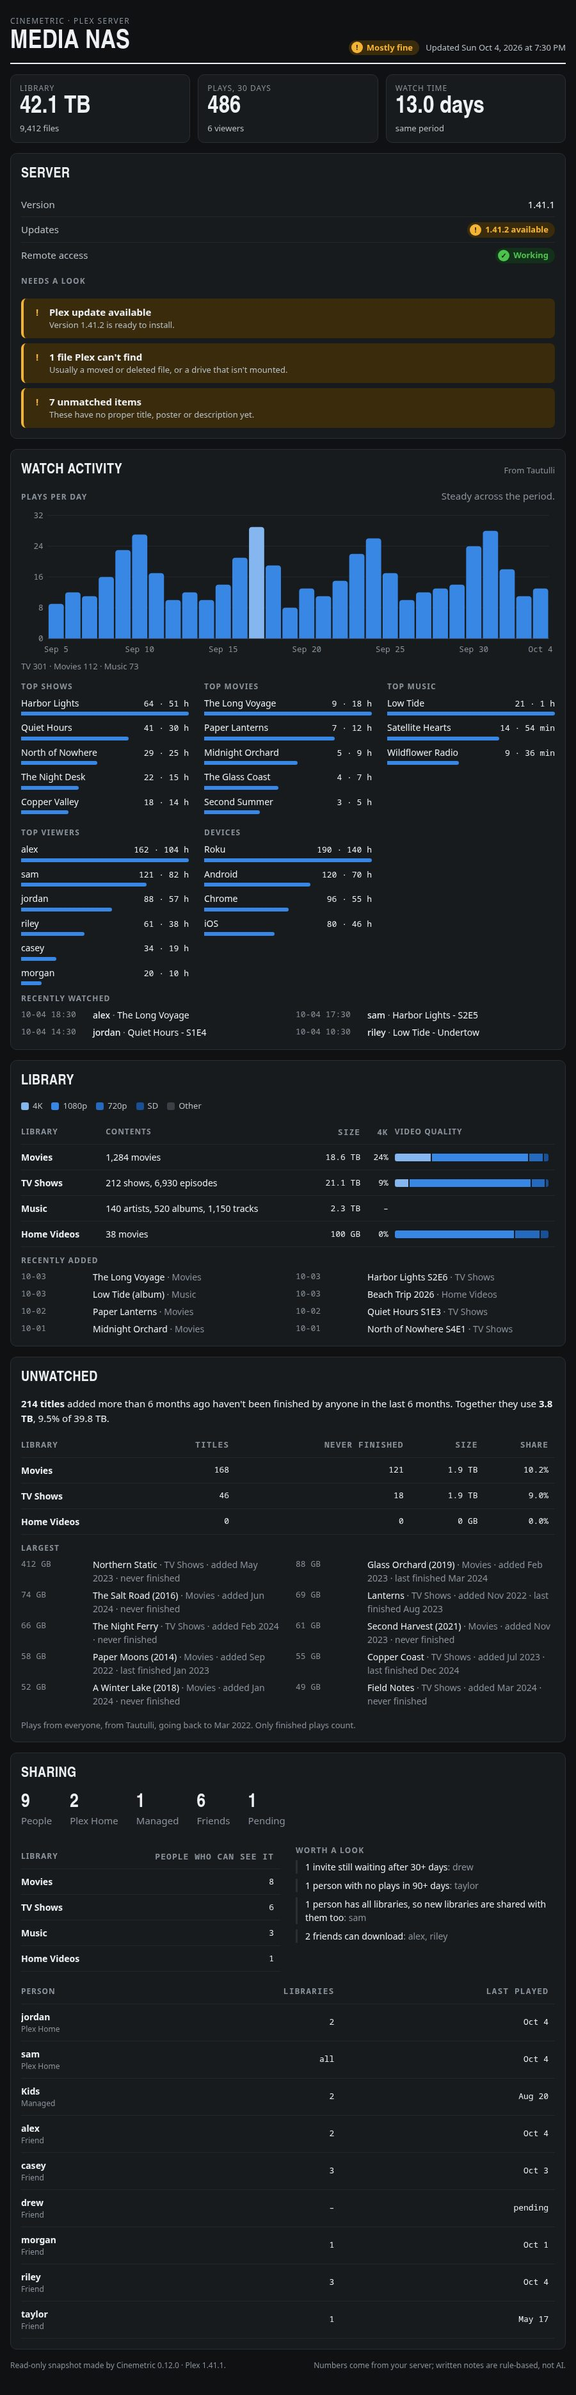
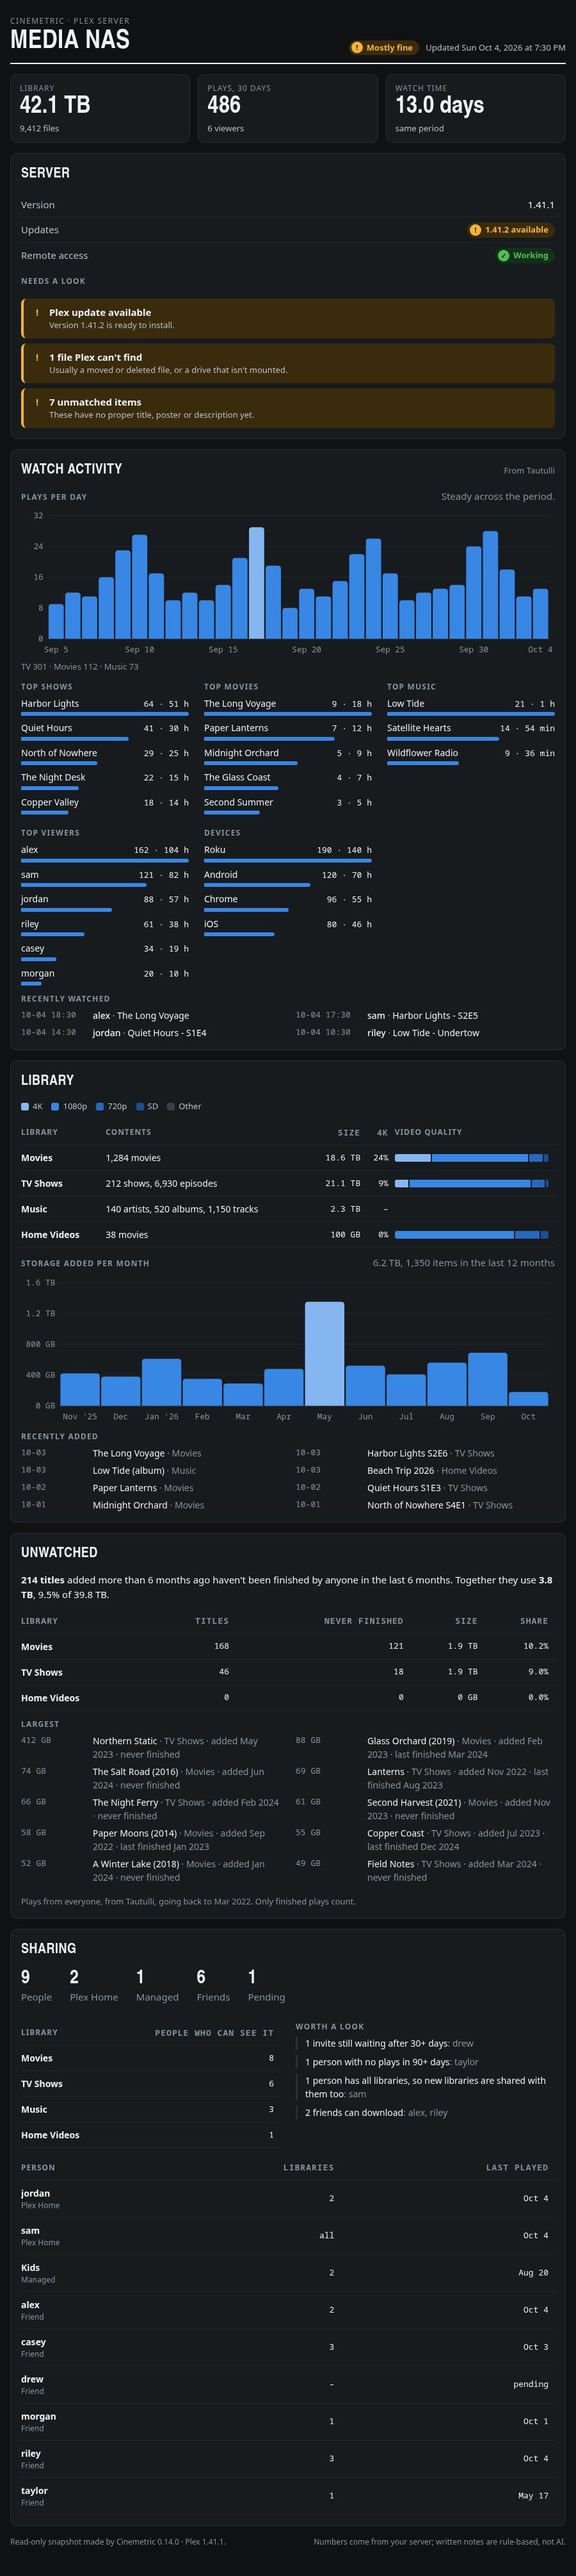
Retake the website's dashboard screenshot with the growth chart
The screenshot now shows the Library section's "Storage added per month"
chart. It's rendered the same way as before: the real dashboard render()
with made-up sample data (now including 12 months of growth), in dark
mode at 900 px wide. The image's height and alt text are updated.

Claude-Session: https://claude.ai/code/session_011TRWwF1kt5kRSGGxckzLze

diff --git a/website/index.html b/website/index.html
@@ -495,7 +495,7 @@
 
         <figure class="mock demo reveal" aria-label="Example: the dashboard page">
           <div class="mock-bar"><span aria-hidden="true"></span><span aria-hidden="true"></span><span aria-hidden="true"></span><em>Your browser</em></div>
-          <div class="shot"><img src="screens/dashboard.jpg" width="900" height="3739" loading="lazy" alt="The real Cinemetric dashboard in dark mode: library size, plays and watch time, a server card with an update notice, a plays-per-day bar chart, top shows, movies, music and viewers, the library table, titles nobody has finished in six months, and who the server is shared with."></div>
+          <div class="shot"><img src="screens/dashboard.jpg" width="900" height="4020" loading="lazy" alt="The real Cinemetric dashboard in dark mode: library size, plays and watch time, a server card with an update notice, a plays-per-day bar chart, top shows, movies, music and viewers, the library table with a storage-added-per-month bar chart, titles nobody has finished in six months, and who the server is shared with."></div>
           <figcaption>The real dashboard, filled with made-up sample data. Scroll inside it to see more.</figcaption>
         </figure>
       </div>
